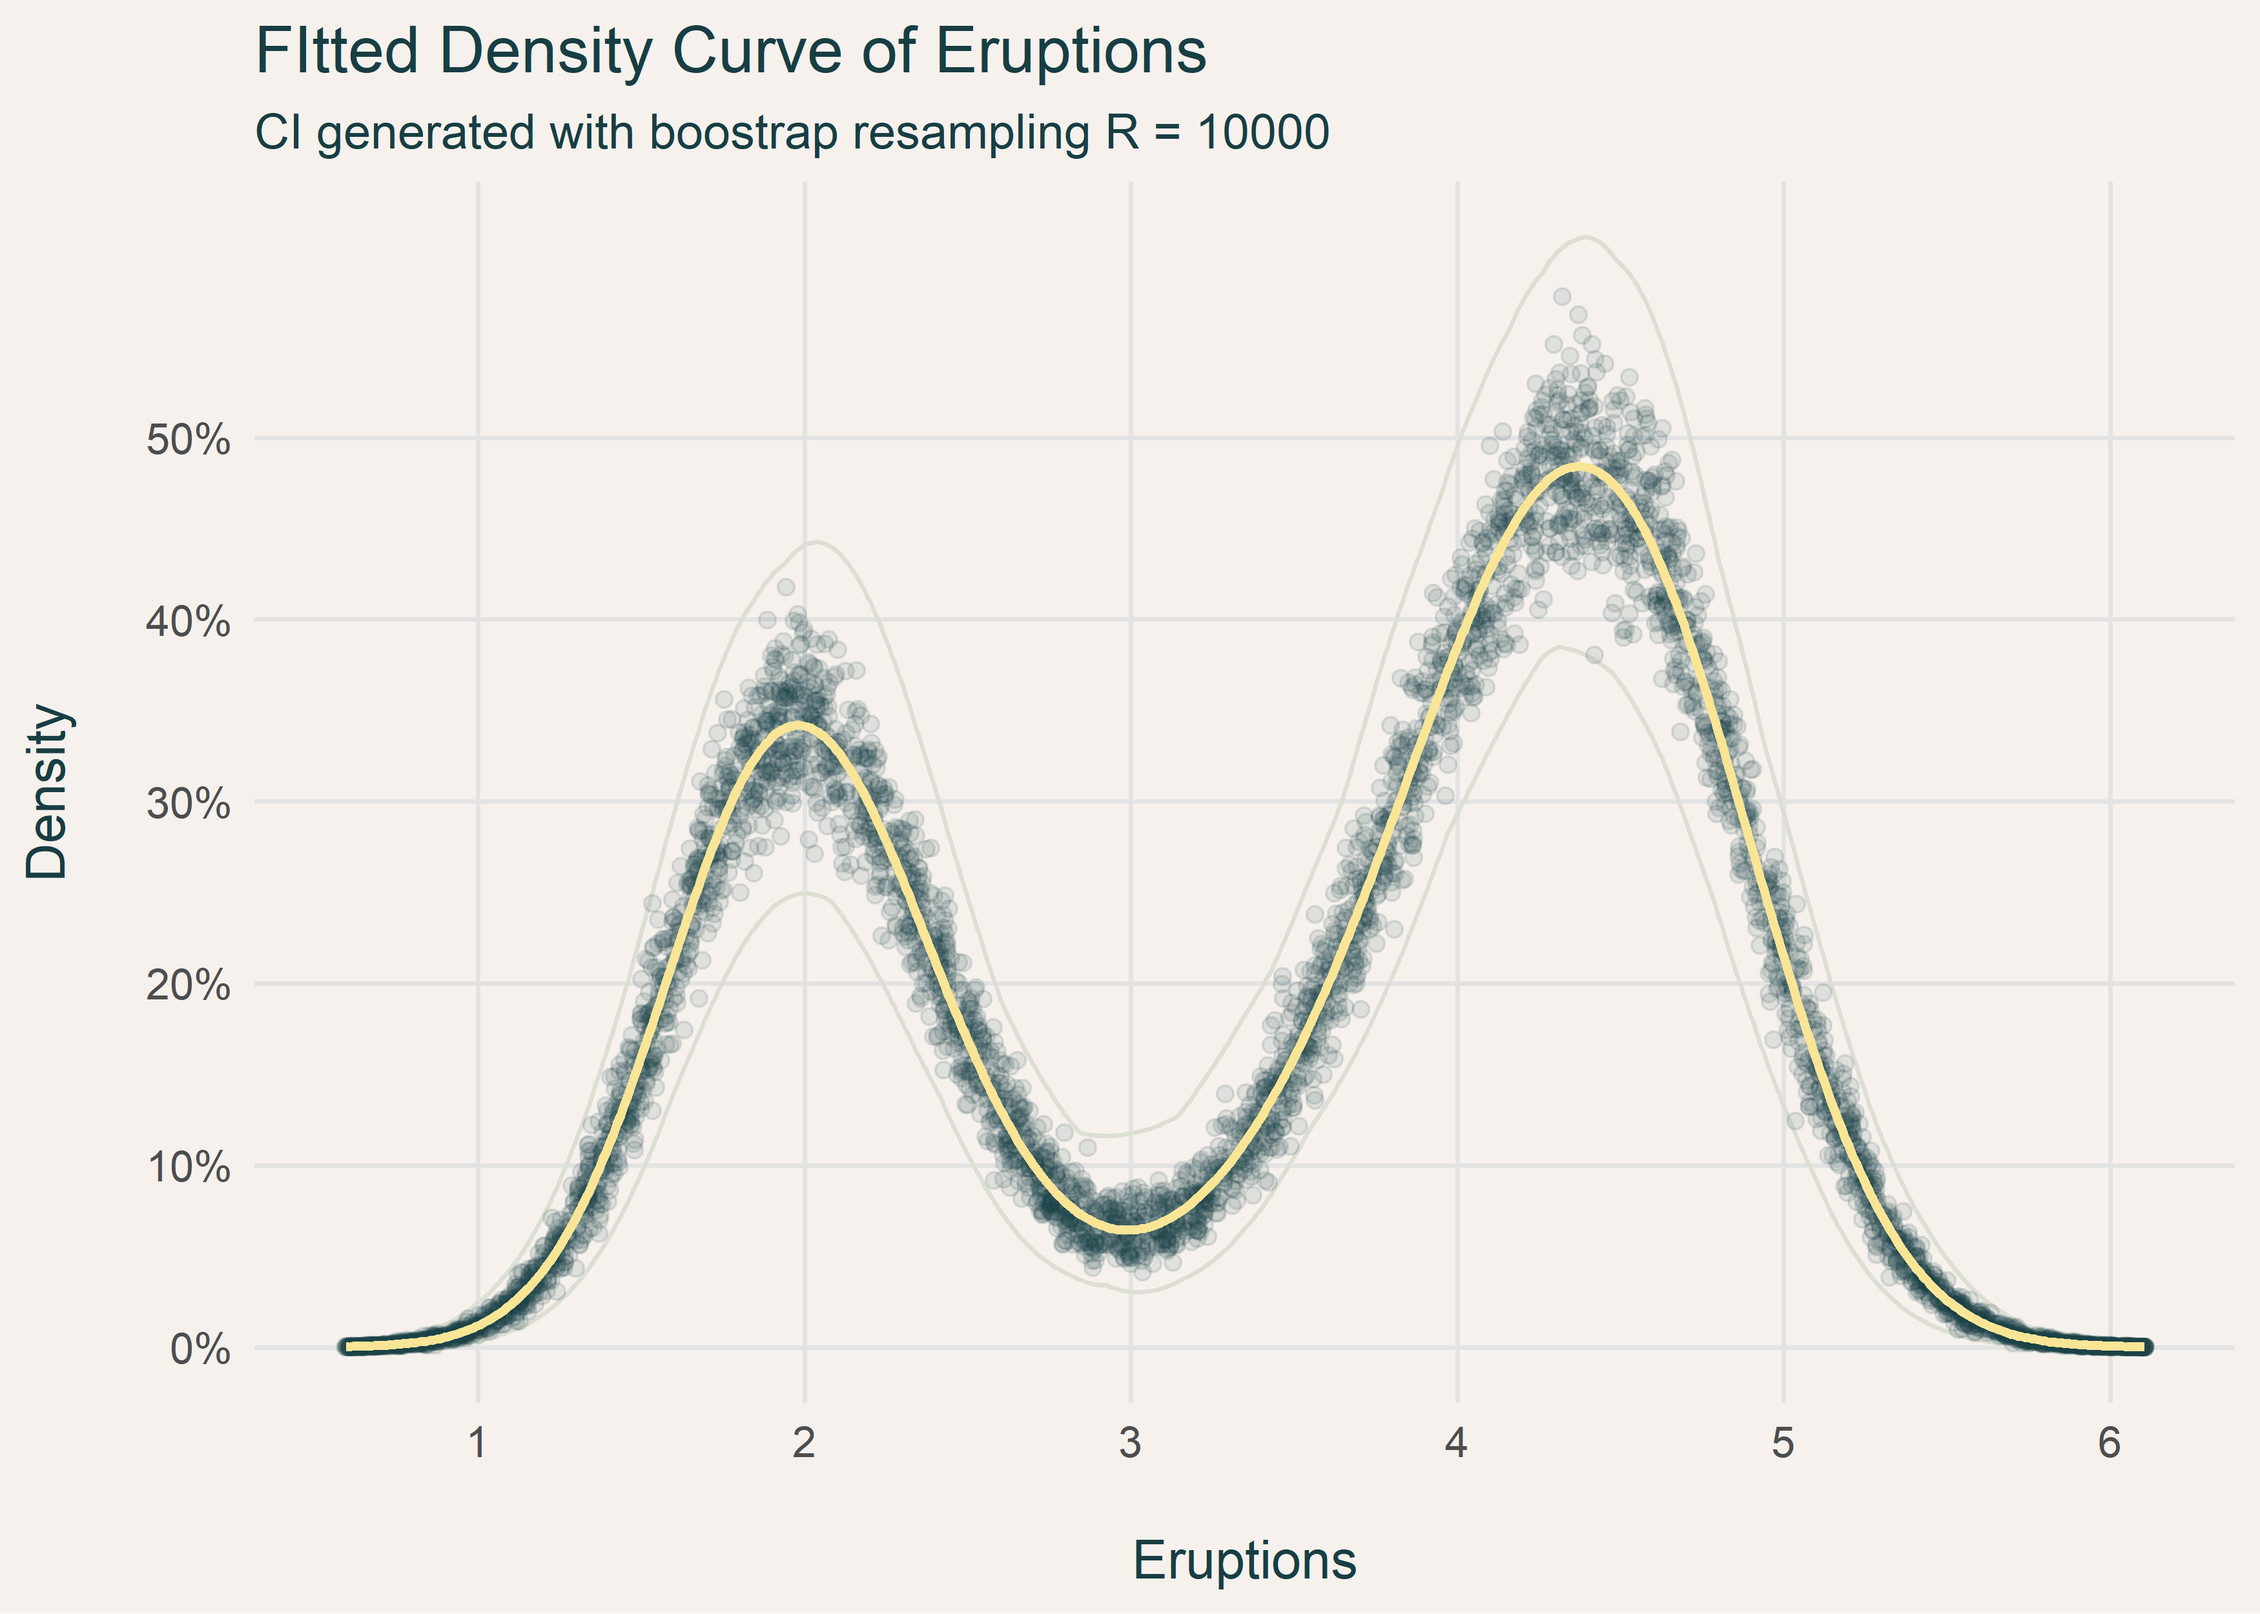
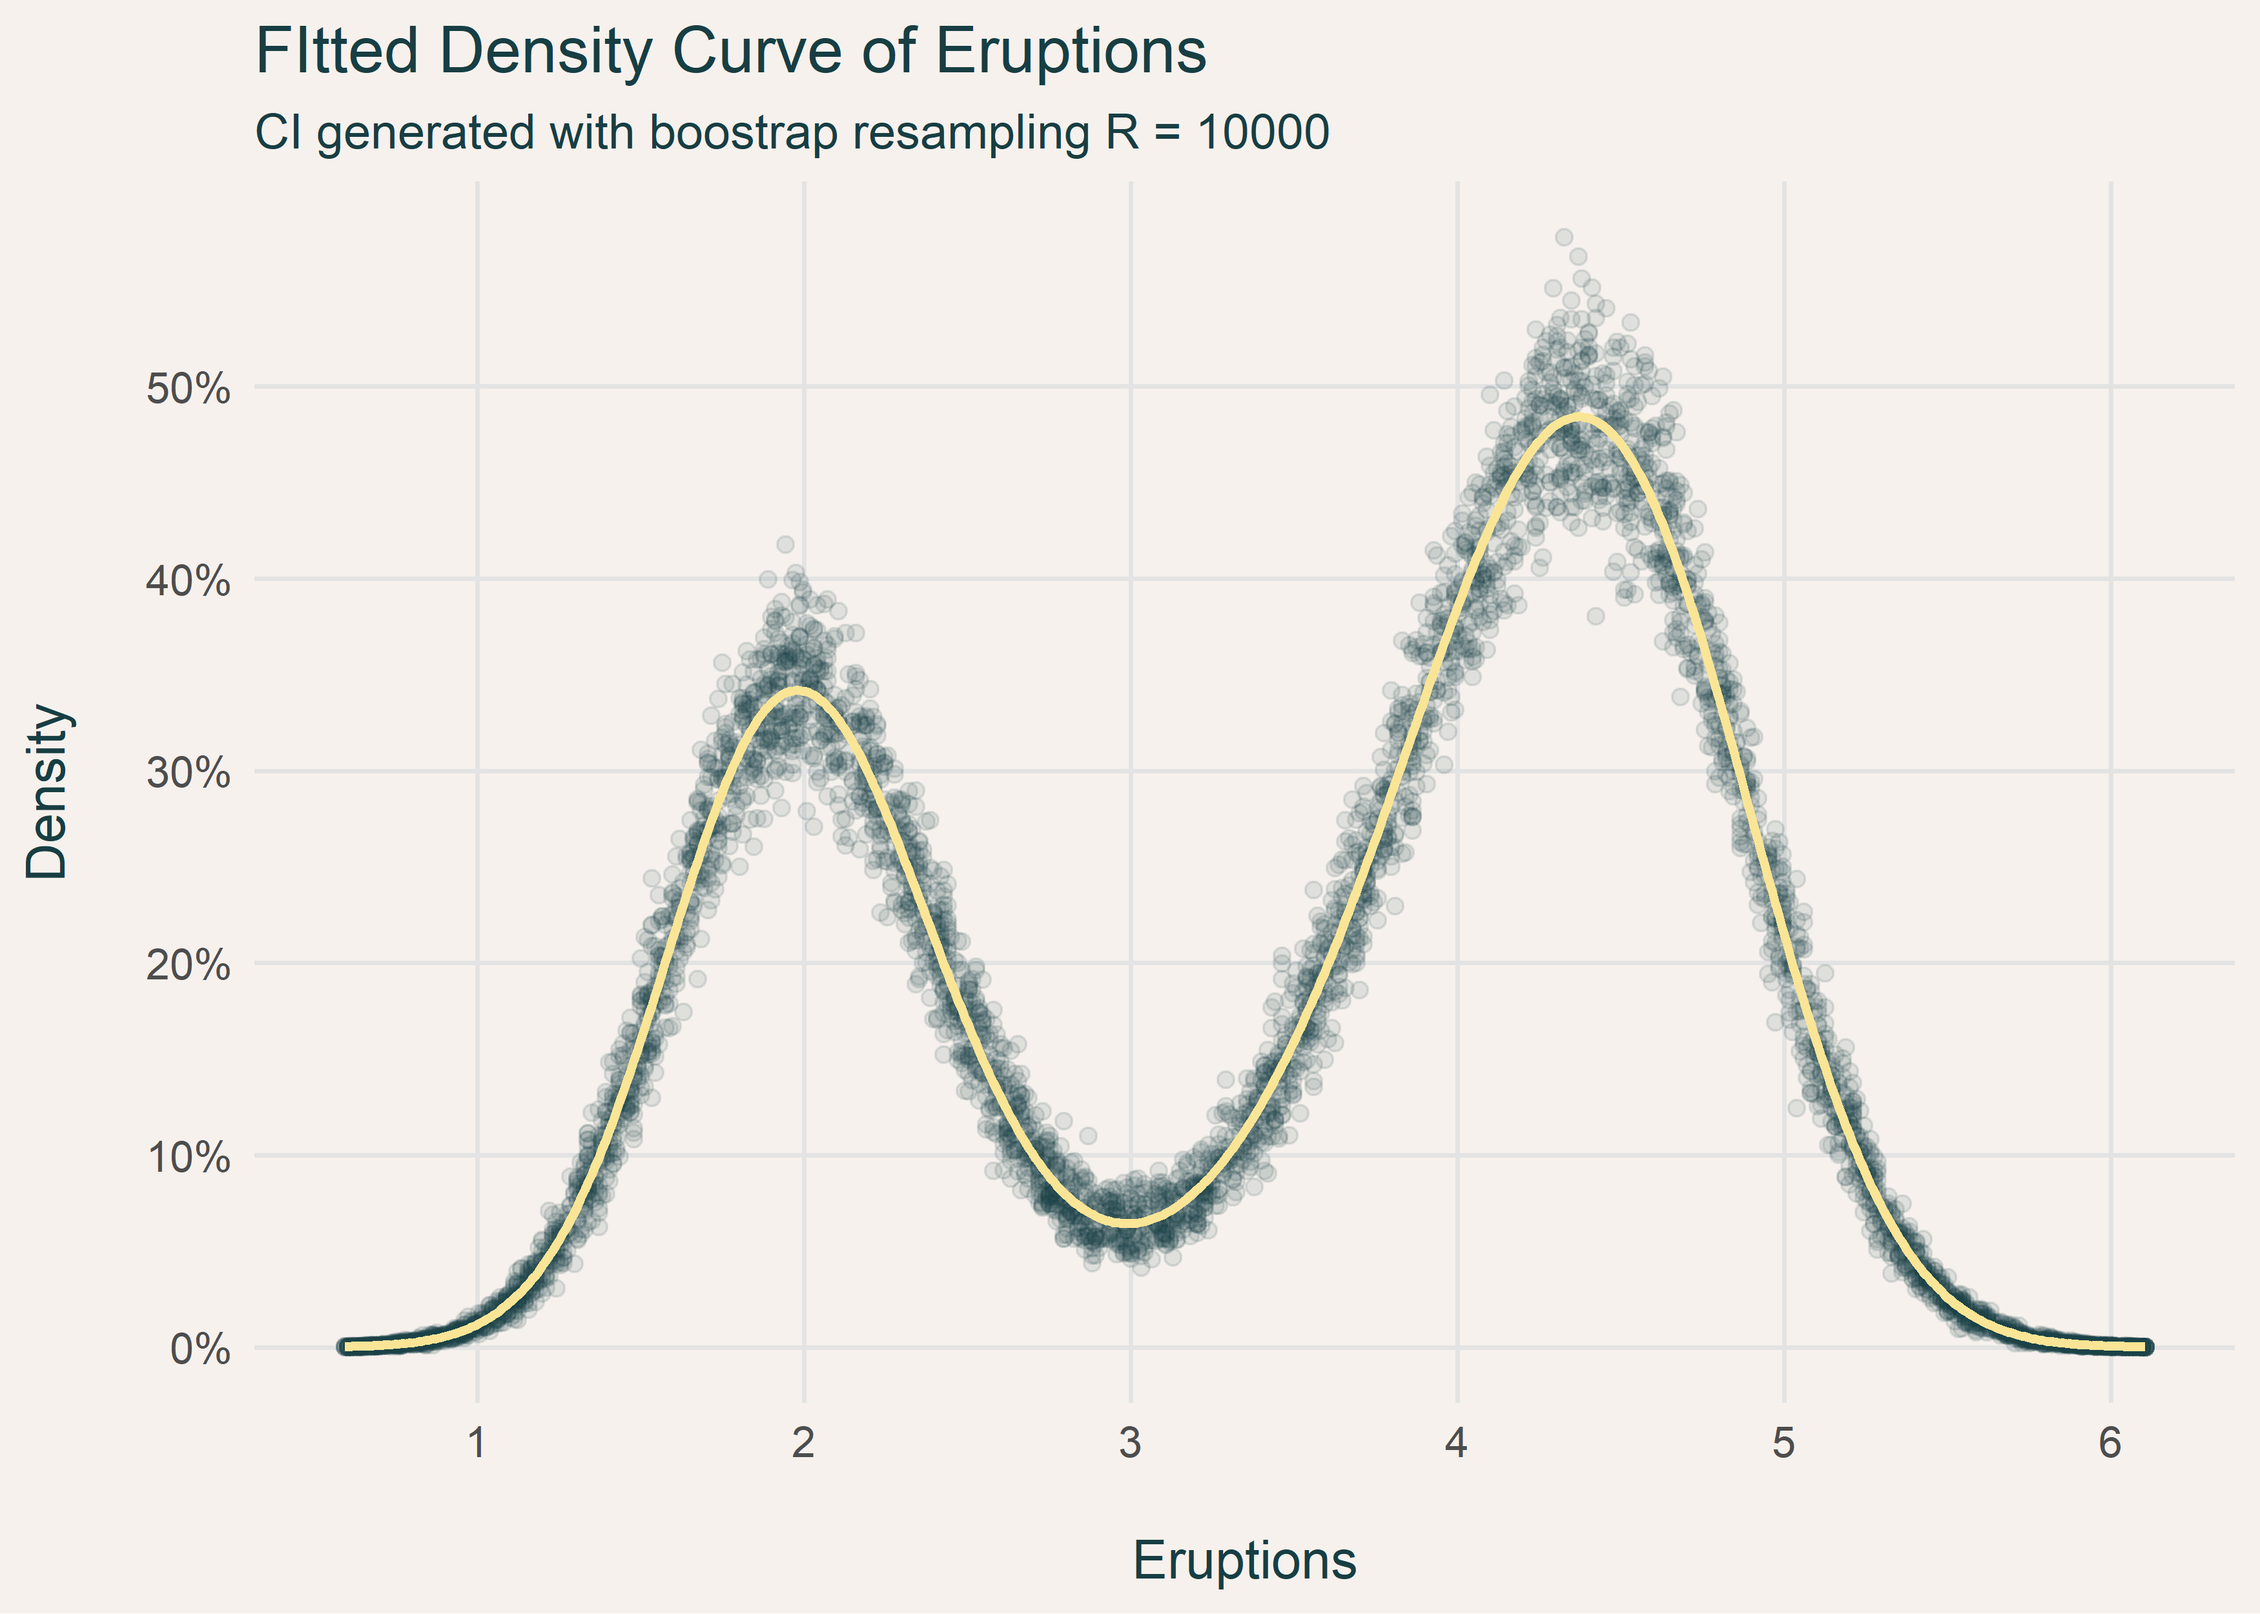
init

diff --git a/_posts/2018-04-08-bootstrapping-density-ggplot.md b/_posts/2018-04-08-bootstrapping-density-ggplot.md
@@ -118,10 +118,10 @@ Plotting
 
 ``` r
 ggplot() +
-  geom_ribbon(data = bs_samples,
-              aes(x=x,y=y,ymin = min, ymax = max),
-              alpha=0.5, color="#dddfd4") +
-  geom_jitter(data = bs_samples_5000,
+  # geom_ribbon(data = bs_samples,
+  #             aes(x=x,y=y,ymin = min, ymax = max),
+  #             alpha=0.5, color="#dddfd4") +
+  geom_point(data = bs_samples_5000,
               aes(x=x, y=y),
               alpha=0.1, color="#173e43") +
   geom_line(data=fit1 %>% tidy, aes(x=x, y=y), color="#fae596", size=1) +
